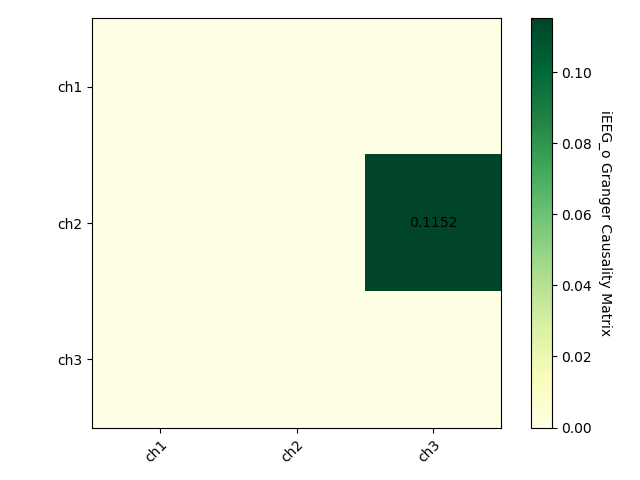
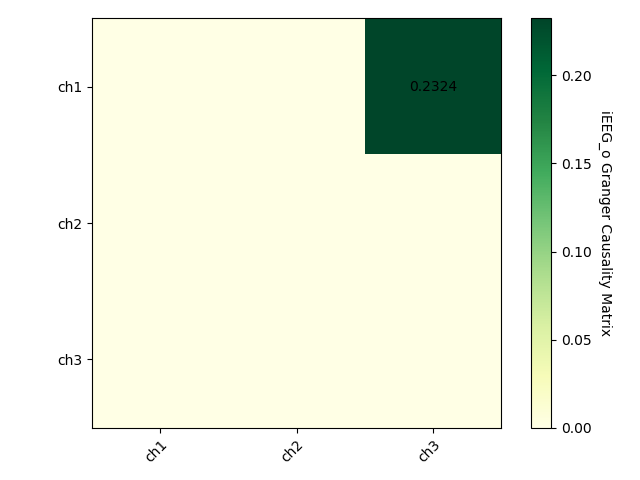
update

diff --git a/RNN_GC.py b/RNN_GC.py
@@ -97,7 +97,7 @@ if __name__ == '__main__':
 
     avg_gc_matrix = 0
     # for signal_type in all_signal_type:
-    signal_type = all_signal_type
+    signal_type = all_signal_type[3]
     print(f'signal type: {signal_type}')
     cfg = config[signal_type]
     for _ in range(cfg['num_trial']):
